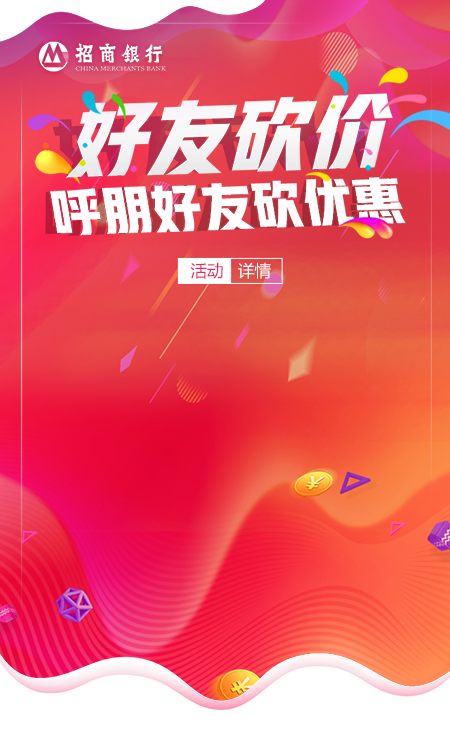
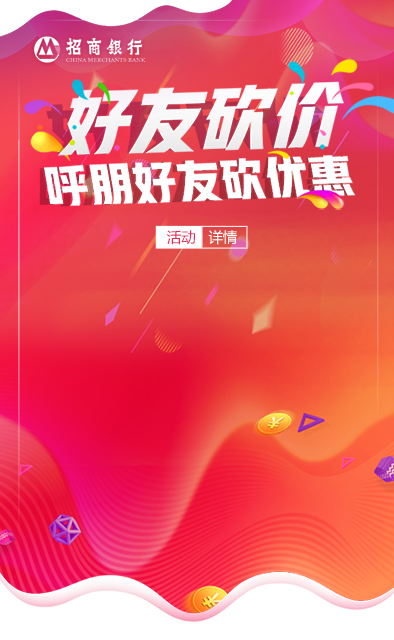
developing

diff --git a/src/main/resources/templates/public/activity_info.html b/src/main/resources/templates/public/activity_info.html
@@ -15,16 +15,16 @@
 
 <body class="gray-bg">
     <div id="main_container">
-        <div id="head_holder"></div>
+    </div>
         <div id="details_holder">
             <p id="details" th:text="${activity.cashingInfo}"></p>
+            <button type="submit" id="join_BTN" ><div id="button_holder"></div></button>
         </div>
-        <button type="submit" id="join_BTN" ><div id="button_holder"></div></button>
+
         <form id="joinForm" method="post" action="/joinIn">
             <input type="hidden" id="act_id" name="act_id" th:value="${act_id}">
             <input  type="hidden" id="join_back_url" name="url">
         </form>
-    </div>
     <script th:src="@{/webjars/jquery/1.11.1/jquery.min.js}"></script>
     <script th:src="@{/webjars/bootstrap/3.1.1/js/bootstrap.min.js}"></script>
     <script th:src="@{/js/public/act_info.js}"></script>

diff --git a/src/main/resources/static/css/public/activity_info.css b/src/main/resources/static/css/public/activity_info.css
@@ -1,15 +1,16 @@
 #main_container
 {
-    background: url(../../images/act_info_background.png) no-repeat;
+    background: url(../../images/act_info_background_head.jpg) no-repeat;
     background-size: 100% 100%;
     min-width: 100%;
-    min-height: 100%;
+    min-height: 40%;
 }
-#head_holder {
-    min-height: 320px;
-}
+
 #details_holder {
-    min-height: 220px;
+    background: url(../../images/act_info_background_foot.jpg) no-repeat;
+    background-size: 100% 100%;
+    min-width: 100%;
+    min-height: 60%;
 }
 #details {
     max-width: 80%;
@@ -20,6 +21,7 @@
 #join_BTN {
     background: url("../../images/join_act_button.png");
     background-size: 100% 100%;
+    margin-top: 20%;
     margin-left: 17%;
     border-bottom: transparent;
     border-top: transparent;

diff --git a/src/main/resources/static/css/public/details.css b/src/main/resources/static/css/public/details.css
@@ -1,19 +1,19 @@
 #main_container
 {
-    background: url(../../images/background.png) no-repeat;
+    background: url(../../images/game_background.png) no-repeat;
     background-size: 100% 100%;
     min-width: 100%;
     min-height: 100%;
 }
 #img_container {
-    height: 325px;
+    height: 30%;
 }
 #reward_img {
-    margin-top: 30%;
-    margin-left: 38%;
+    margin-top: 5%;
+    margin-left: 35%;
 }
 .money_left {
-    margin-left: 25%;
+    margin-left: 23%;
     font-size: 25pt;
 }
 .introduce {

diff --git a/src/main/java/com/yukoon/bargain/interceptors/LoginInterceptor.java b/src/main/java/com/yukoon/bargain/interceptors/LoginInterceptor.java
@@ -23,12 +23,12 @@ public class LoginInterceptor implements HandlerInterceptor {
         boolean flag = false;
         Subject subject = SecurityUtils.getSubject();
         System.out.println("isAuthenticated:"+subject.isAuthenticated());
-        System.out.println("isRemembered"+subject.isRemembered());
+        System.out.println("isRemembered:"+subject.isRemembered());
         if (!subject.isAuthenticated() && subject.isRemembered()){
             Object principal = subject.getPrincipal();
             System.out.println(principal);
             if (null != principal) {
-                User user = userService.autoLogin((String) principal);
+                User user = userService.autoLogin(principal.toString());
                 UsernamePasswordToken upToken = new UsernamePasswordToken(user.getUsername(),user.getPassword());
                 upToken.setRememberMe(true);
                 try {
